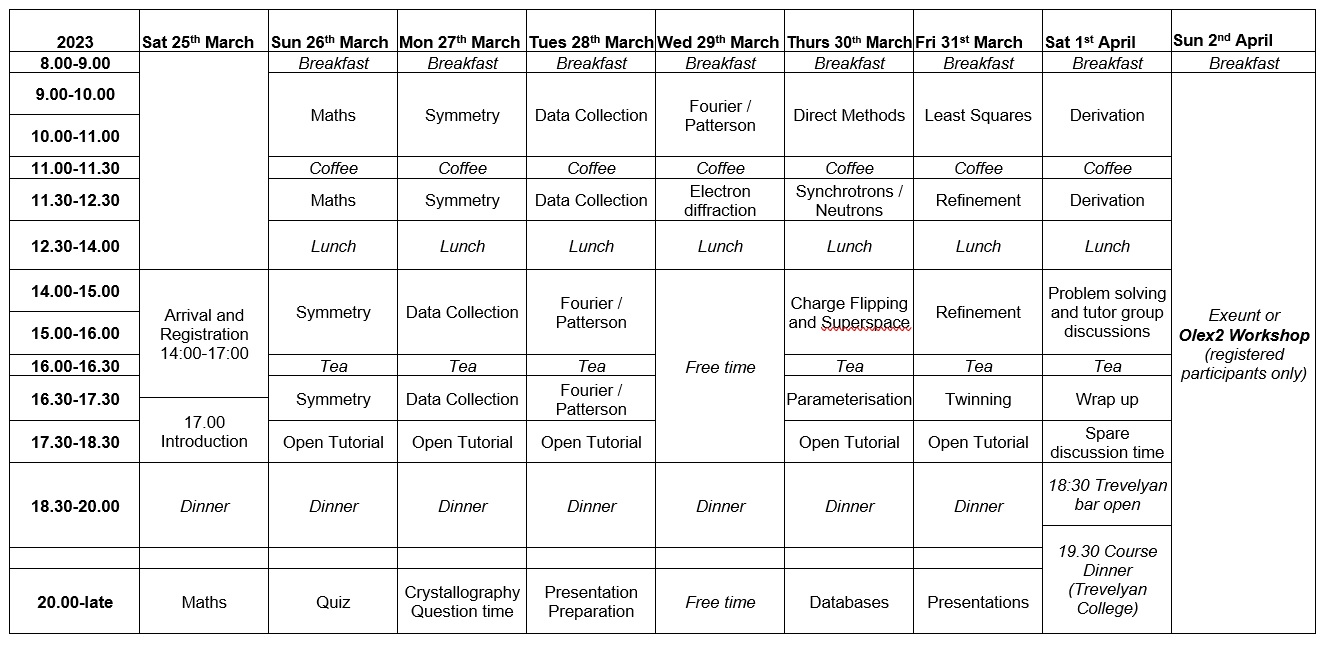
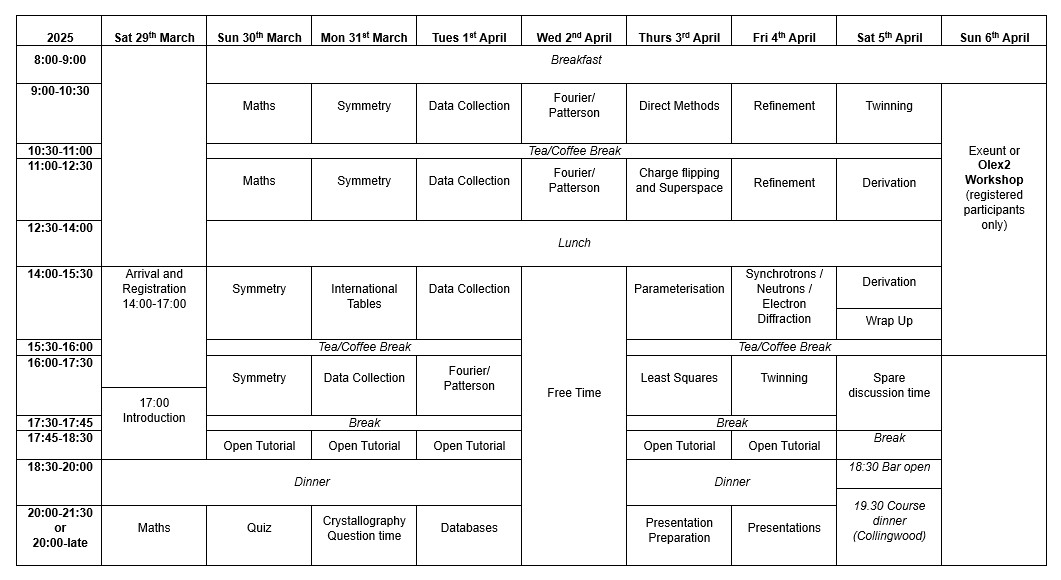
Updates

diff --git a/staff.htm b/staff.htm
@@ -172,7 +172,7 @@ function MM_jumpMenu(targ,selObj,restore){ //v3.0
           <td valign="top" align="left"> 
 		<p></p><p><a href="https://www.kent.ac.uk/physical-sciences/staff/profiles/academics/helena-shepherd.html" target="_blank"><font face="Arial,Helvetica" size="3"><b>Dr. Helena Shepherd</b></font></a></p>
 		<font face="Arial,Helvetica" size="2"><p>Helena received an MChem from the University of Bath before moving to Durham University for a PhD under the supervision of Dr Andr&eacutes Goeta and Professor Judith Howard.
-                After Postdoctoral positions at the Laboratory of Coordination Chemistry (CNRS) in Toulouse and the University of Bath, Helena moved to the University of Kent in 2015, where she is currently a Senior Lecturer in
+                After Postdoctoral positions at the Laboratory of Coordination Chemistry (CNRS) in Toulouse and the University of Bath, Helena moved to the University of Kent in 2015, where she is currently a Reader in
                 Chemistry.  Her research focuses on switchable molecular materials, investigating all aspects from fundamental structure-property correlations to novel synthetic approaches and applications.  She has a 
                 particular interest in studying phase transitions in molecular systems under extremes of pressure, temperature and light irradiation using a combination of crystallography, spectroscopy and magnetometry.</p></font>
           </td>
@@ -189,6 +189,18 @@ function MM_jumpMenu(targ,selObj,restore){ //v3.0
 		<p><img src="./images/sc.jpg" height="100"></p>
 		<p><a href="https://www.liverpool.ac.uk/chemistry/staff/samantha-chong/" target="_blank"><font face="Arial,Helvetica" size="2"><b>Dr. Samantha Chong</b></font></a></p>
  	  </td>
+   	  <td valign="top" align="left">
+		<p><img src="./images/durhambw.jpg" height="100"></p>
+		<p><a href="https://profiles.cardiff.ac.uk/staff/coulsonb" target="_blank"><font face="Arial,Helvetica" size="2"><b>Dr. Ben Coulson</b></font></a></p>
+ 	  </td>
+    	  <td valign="top" align="left">
+		<p><img src="./images/tf.png" height="100"></p>
+		<p><a href="https://www.liverpool.ac.uk/cooper-group/people/tom-fellowes/" target="_blank"><font face="Arial,Helvetica" size="2"><b>Dr. Tom Fellowes</b></font></a></p>
+ 	  </td>
+	</tr>
+
+
+	<tr>
   	  <td valign="top" align="left">
 		<p><img src="./images/nj.jpg" height="100"></p>
 		<p><a href="https://www.ccdc.cam.ac.uk/researchandconsultancy/ccdcresearch/ccdcresearchers/?id=0ac71692-81e6-e811-9673-00505695281c" target="_blank"><font face="Arial,Helvetica" size="2"><b>Dr. Natalie Johnson</b></font></a></p>
@@ -197,18 +209,17 @@ function MM_jumpMenu(targ,selObj,restore){ //v3.0
 		<p><img src="./images/durhambw.jpg" height="100"></p>
 		<p><a href="https://www.bruker.com/en/products-and-solutions/diffractometers-and-scattering-systems/single-crystal-x-ray-diffractometers/sc-xrd-components/sources.html?sc_cid=SEMB&campaign=microfocus_sources&source={sourceName}&medium={mediumName}&keyword=single%20crystal%20diffraction&device=c&gclid=EAIaIQobChMIrufbkJrn-gIVnIBQBh1x2QsrEAAYASAAEgKtePD_BwE" target="_blank"><font face="Arial,Helvetica" size="2"><b>Dr. Carsten Lenczyk</b></font></a></p>
  	  </td>
-	</tr>
-
-
-	<tr>
           <td valign="top" align="left">
 		<p><img src="./images/ml.jpg" height="100"></p>
 		<p><a href="http://eccl.ijs.si/" target="_blank"><font face="Arial,Helvetica" size="2"><b>Dr. Matic Lozinsek</b></font></a></p>
  	  </td>
-        	  <td valign="top" align="left">
-		<p><img src="./images/io.jpg" height="100"></p>
-		<p><a href="https://www.strath.ac.uk/staff/oswaldiaindr/" target="_blank"><font face="Arial,Helvetica" size="2"><b>Dr. Iain Oswald</b></font></a></p>
+            <td valign="top" align="left">
+		<p><img src="./images/durhambw.jpg" height="100"></p>
+		<p><a href="https://research.birmingham.ac.uk/en/persons/georgia-orton" target="_blank"><font face="Arial,Helvetica" size="2"><b>Dr. Georgia Orton</b></font></a></p>
  	  </td>
+
+	</tr>
+	<tr>
 	  <td valign="top" align="left">
 		<p><img src="./images/chnep.png" height="100"></p>
 		<p><a href="http://xray.chm.bris.ac.uk/external/contact.html" target="_blank"><font face="Arial,Helvetica" size="2"><b>Dr. Natalie Pridmore</b></font></a></p>
@@ -217,22 +228,11 @@ function MM_jumpMenu(targ,selObj,restore){ //v3.0
 		<p><img src="./images/alt.jpg" height="100"></p>
 		<p><a href="https://www.chem.ox.ac.uk/people/amber-thompson" target="_blank"><font face="Arial,Helvetica" size="2"><b>Dr. Amber Thompson</b></font></a></p>
    	  </td>
-
-	</tr>
-	<tr>
 	  <td valign="top" align="left">
 		<p><img src="./images/jt.jpg" height="100"></p>
 		<p><a href="https://senngroup.com/members/dr-jeremiah-tidey/" target="_blank"><font face="Arial,Helvetica" size="2"><b>Dr. Jeremiah Tidey</b></font></a></p>
-		
+
          </td>
-          <td valign="top" align="left">
-		<p><img src="./images/mw.jpg" height="100"></p>
-		<p><a href="https://www.diamond.ac.uk/Instruments/Crystallography/I19/Staff/Warren.html" target="_blank"><font face="Arial,Helvetica" size="2"><b>Dr. Mark Warren</b></font></a></p>
- 	  </td>
-            <td valign="top" align="left">
-		<p><img src="./images/hy.jpg" height="100"></p>
-		<p><a href="https://yeungmaterialslaboratory.wordpress.com/members/hamish-yeung/" target="_blank"><font face="Arial,Helvetica" size="2"><b>Dr. Hamish Yeung</b></font></a></p>
- 	  </td>
 	</tr>
 
 	</table>

diff --git a/register open.htm b/register open.htm
@@ -89,7 +89,7 @@ function MM_jumpMenu(targ,selObj,restore){ //v3.0
 
 
       <p><font face="Arial,Helvetica" size="2"><span class="aeg_maintext">
-	To apply for a place on the Durham school please complete the form below. The cost of the course is &#8356 1200 for PhD students and PDRAs, &#8356 1400 for academics and &#8356 1600 for industial colleagues. This fee includes registration,
+	To apply for a place on the Durham school please complete the form below. The cost of the course is &#8356 1200 for PhD students and PDRAs, &#8356 1400 for academics and facilities staff and &#8356 1600 for industial colleagues. This fee includes registration,
 	accomodation, all meals for the whole course and a full set of lecture notes. We hope to be able to offer a limited number of bursaries for both UK and overseas applicants. Please
         indicate in the registration form if you wish to apply for one of these bursaries.  <b>Please note the school will focus on the background theory in relation to single crystal X-ray diffraction studies as applied to chemical and material science.</b>
       <p class="john_maintext"> Places are limited and assigned on a first-come-first-serve basis. However, and in case of over-subscription, 
@@ -108,10 +108,10 @@ function MM_jumpMenu(targ,selObj,restore){ //v3.0
 
        <p><font face="Arial,Helvetica" size="2"><span class="aeg_maintext">  </p>
 
-       <p><font face="Arial,Helvetica" size="2"><b>If you can not access the form below please click <a href="https://forms.office.com/Pages/ResponsePage.aspx?id=MH_ksn3NTkql2rGM8aQVGx61wT67SKRIqzAtYGngrThURDdWR1BWSUFIMVpQWkNGUUVUSlQ4NTczMS4u" target="_blank">here</a>.</b>  The form will open in a separate window for you to complete.</font></p>
+       <p><font face="Arial,Helvetica" size="2"><b>If you can not access the form below please click <a href="https://forms.office.com/Pages/DesignPageV2.aspx?subpage=design&FormId=i9hQcmhLKUW-RNWaLYpvlONXQ6hndxJJmnL0btqneNJUM1NOSFFMWVJIV05HR0U3WFlJWDFPTDdRTC4u&Token=7a9abd4d5a0747b0bc26a89c5cf52490" target="_blank">here</a>.</b>  The form will open in a separate window for you to complete.</font></p>
        
        <p>
-       <iframe width="640px" height= "480px" src= "https://forms.office.com/Pages/ResponsePage.aspx?id=MH_ksn3NTkql2rGM8aQVGx61wT67SKRIqzAtYGngrThURDdWR1BWSUFIMVpQWkNGUUVUSlQ4NTczMS4u&embed=true" frameborder= "0" marginwidth= "0" marginheight= "0" style= "border: none; max-width:100%; max-height:100vh" allowfullscreen webkitallowfullscreen mozallowfullscreen msallowfullscreen> </iframe>
+       <iframe width="640px" height= "480px" src= "https://forms.office.com/Pages/DesignPageV2.aspx?subpage=design&FormId=i9hQcmhLKUW-RNWaLYpvlONXQ6hndxJJmnL0btqneNJUM1NOSFFMWVJIV05HR0U3WFlJWDFPTDdRTC4u&Token=7a9abd4d5a0747b0bc26a89c5cf52490&embed=true" frameborder= "0" marginwidth= "0" marginheight= "0" style= "border: none; max-width:100%; max-height:100vh" allowfullscreen webkitallowfullscreen mozallowfullscreen msallowfullscreen> </iframe>
 
 
 

diff --git a/timetable.htm b/timetable.htm
@@ -86,9 +86,9 @@ function MM_jumpMenu(targ,selObj,restore){ //v3.0
 	<img src="./images/JournalofMaterialsChemistryC.jpg" border="0" alt="MaterialsChemC" width="160"></a></div></p>
     </td>
     <td height="391" valign="top"><!-- #BeginEditable "editable_region" -->
-      <p><font face="Arial,Helvetica" size="2"><span class="aeg_maintext">The timetable for the 2023 school is shown below so that applicants
+      <p><font face="Arial,Helvetica" size="2"><span class="aeg_maintext">The expected timetable for the 2025 school is shown below so that applicants
 	have an idea of what to expect from the school. All lectures will be held in the Hub at Mount Oswald. (~10 minutes walk from Collingwood College).
-	Coffee and tea as well as lunch will be served in the Hub at Mount Oswald. Dinner will be served in <a href="http://www.dur.ac.uk/collingwood/" target="_blank">Collingwood College.</a>
+	Lunch. Dinner will be served in <a href="https://www.dur.ac.uk/colleges-and-student-experience/colleges/van-mildert/" target="_blank">Van Mildert College.</a>
 	<div align="left"><img src="./images/timetable.jpg" border="0" width="1000"></a></div>
 
         <p class="aeg_maintext">Many thanks to our sponsors, without whom it would not be possible to hold the 20<sup>th</sup> school:<br>
